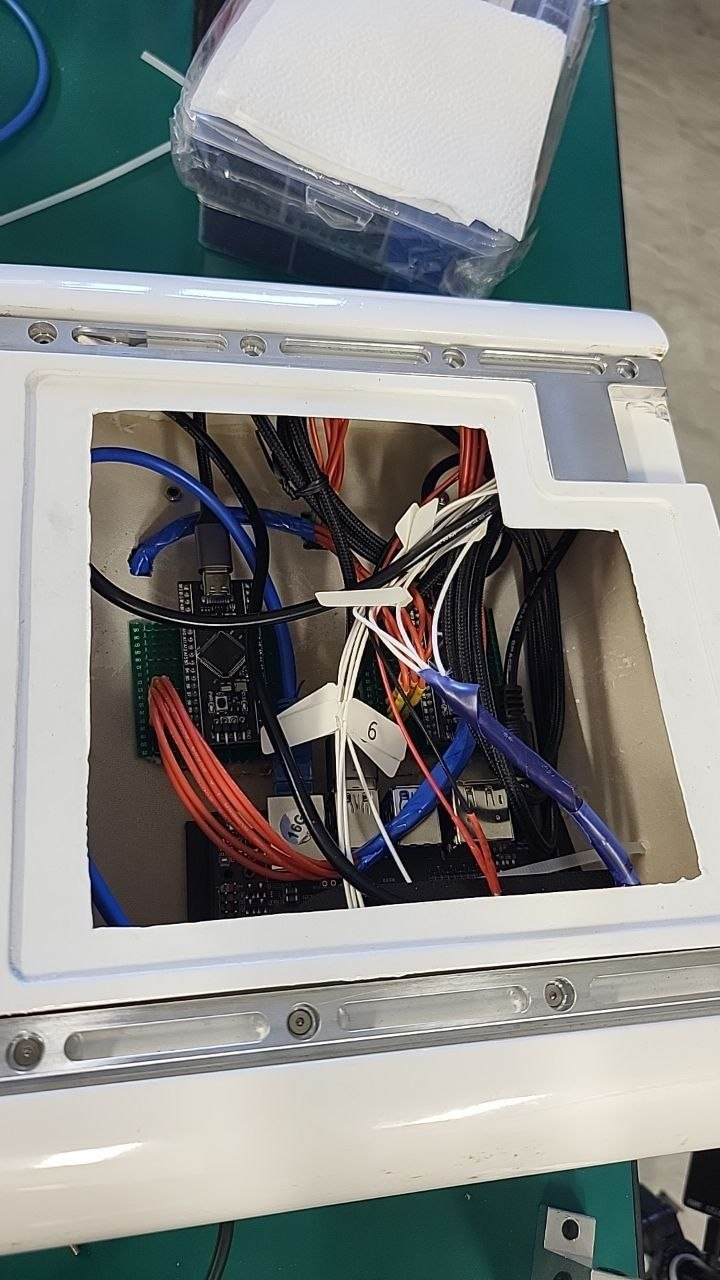
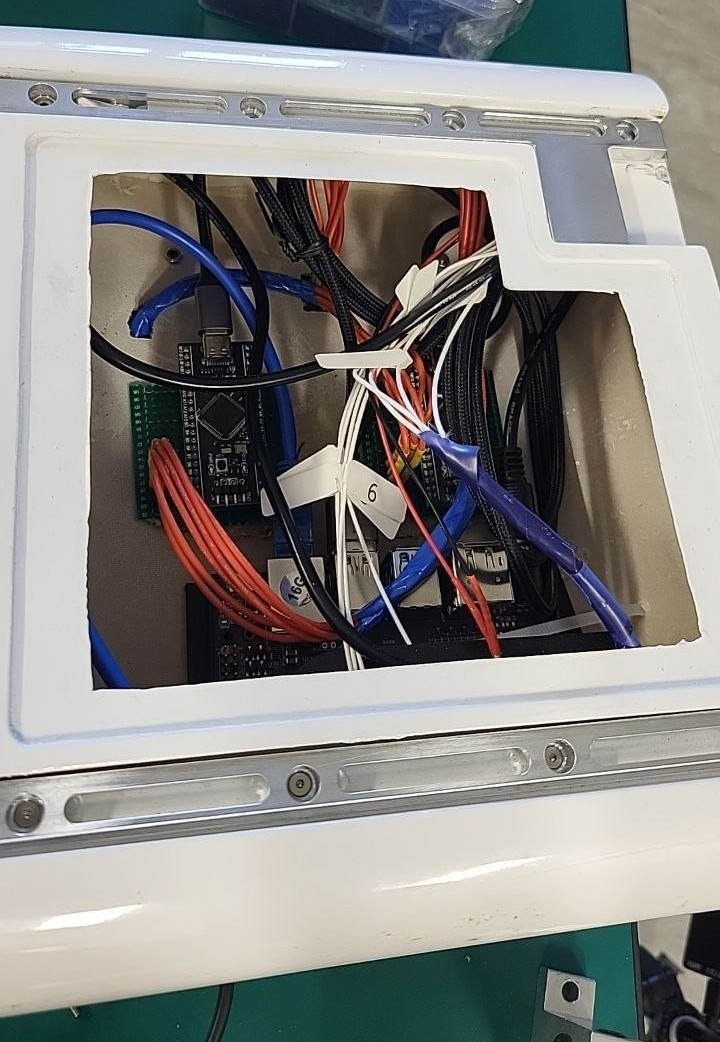
a

diff --git a/_portfolio/0a-air.md b/_portfolio/0a-air.md
@@ -1,10 +1,10 @@
 ---
 title: "Air Quality Payload on a VTOL Aircraft"
-excerpt: "Put a Jetson Orin Nano and two sensor boards into the cargo bay of a purchased VTOL, and brought SSH plus MAVLink up over the existing radio. <br/> ![air quality sensor head](https://raw.githubusercontent.com/alibeknakhimov/portfolio.github.io/refs/heads/master/images/air/02_sensor_head.jpg)"
+excerpt: "Put a Jetson Orin Nano and two sensor boards into the cargo bay of a VTOL, and brought SSH plus MAVLink up over the existing radio. <br/> ![air quality sensor head](https://raw.githubusercontent.com/alibeknakhimov/portfolio.github.io/refs/heads/master/images/air/02_sensor_head.jpg)"
 collection: portfolio
 ---
 
-University research project under a state targeted-funding program. The aircraft was purchased: a VTOL hybrid that climbs vertically and then cruises as a plane. The radio and the ground station were purchased with it.
+University research project under a state targeted-funding program. The aircraft is a VTOL hybrid that climbs vertically and then cruises as a plane.
 
 **Role:** I did the payload alone. Companion computer, cargo-bay connector, and both sensor boards.  
 **Timeline:** about 2 months.  
@@ -14,7 +14,7 @@ University research project under a state targeted-funding program. The aircraft
 
 ### The aircraft
 
-![Purchased VTOL on the bench, cargo bay open]({{ site.url }}{{ site.baseurl }}/images/air/01_aircraft.jpg)
+![VTOL on the bench, cargo bay open]({{ site.url }}{{ site.baseurl }}/images/air/01_aircraft.jpg)
 
 The cargo bay slides out of the fuselage on latches. A plug on that bay already carried power. I added Ethernet to the same plug, so the payload seats as one module: push it in, and power and the network connect together.
 
@@ -30,7 +30,7 @@ Where each part sits, and how the bay slides in on the rails.
   <source src="{{ site.url }}{{ site.baseurl }}/videos/air/bay.mp4" type="video/mp4">
 </video>
 
-![Wiring inside the cargo bay]({{ site.url }}{{ site.baseurl }}/images/air/04_bay.jpg)
+<img src="{{ site.url }}{{ site.baseurl }}/images/air/04_bay.jpg" alt="Wiring inside the cargo bay" style="width:860px;max-width:100%;height:auto;">
 
 ![Bench setup: aircraft, handheld transmitter, ground station]({{ site.url }}{{ site.baseurl }}/images/air/05_bench.jpg)
 

diff --git a/_pages/about.md b/_pages/about.md
@@ -11,7 +11,7 @@ redirect_from:
 
 🔩 My work spans from microcontroller-based development using STM32 to integrated solutions on Single Board Computers(SBC) like Raspberry Pi and NVIDIA Jetson, emphasizing real-time performance, system stability, and scalability across various embedded environments.
 
-🔋 I am particularly passionate about hardware–software co-design, sensor integration, and power-efficient architectures for autonomous and connected systems. My recent projects involve remote content delivery networks for multi-display systems, custom UAV and VTOL control hardware, and IoT-based automation nodes for intelligent infrastructure.
+🔋 I am particularly passionate about hardware–software co-design, sensor integration, and power-efficient architectures for autonomous and connected systems. My recent projects involve remote content delivery networks for multi-display systems, an air-quality payload on a VTOL aircraft, and IoT-based automation nodes for intelligent infrastructure.
 
 Selected Experience
 ======
